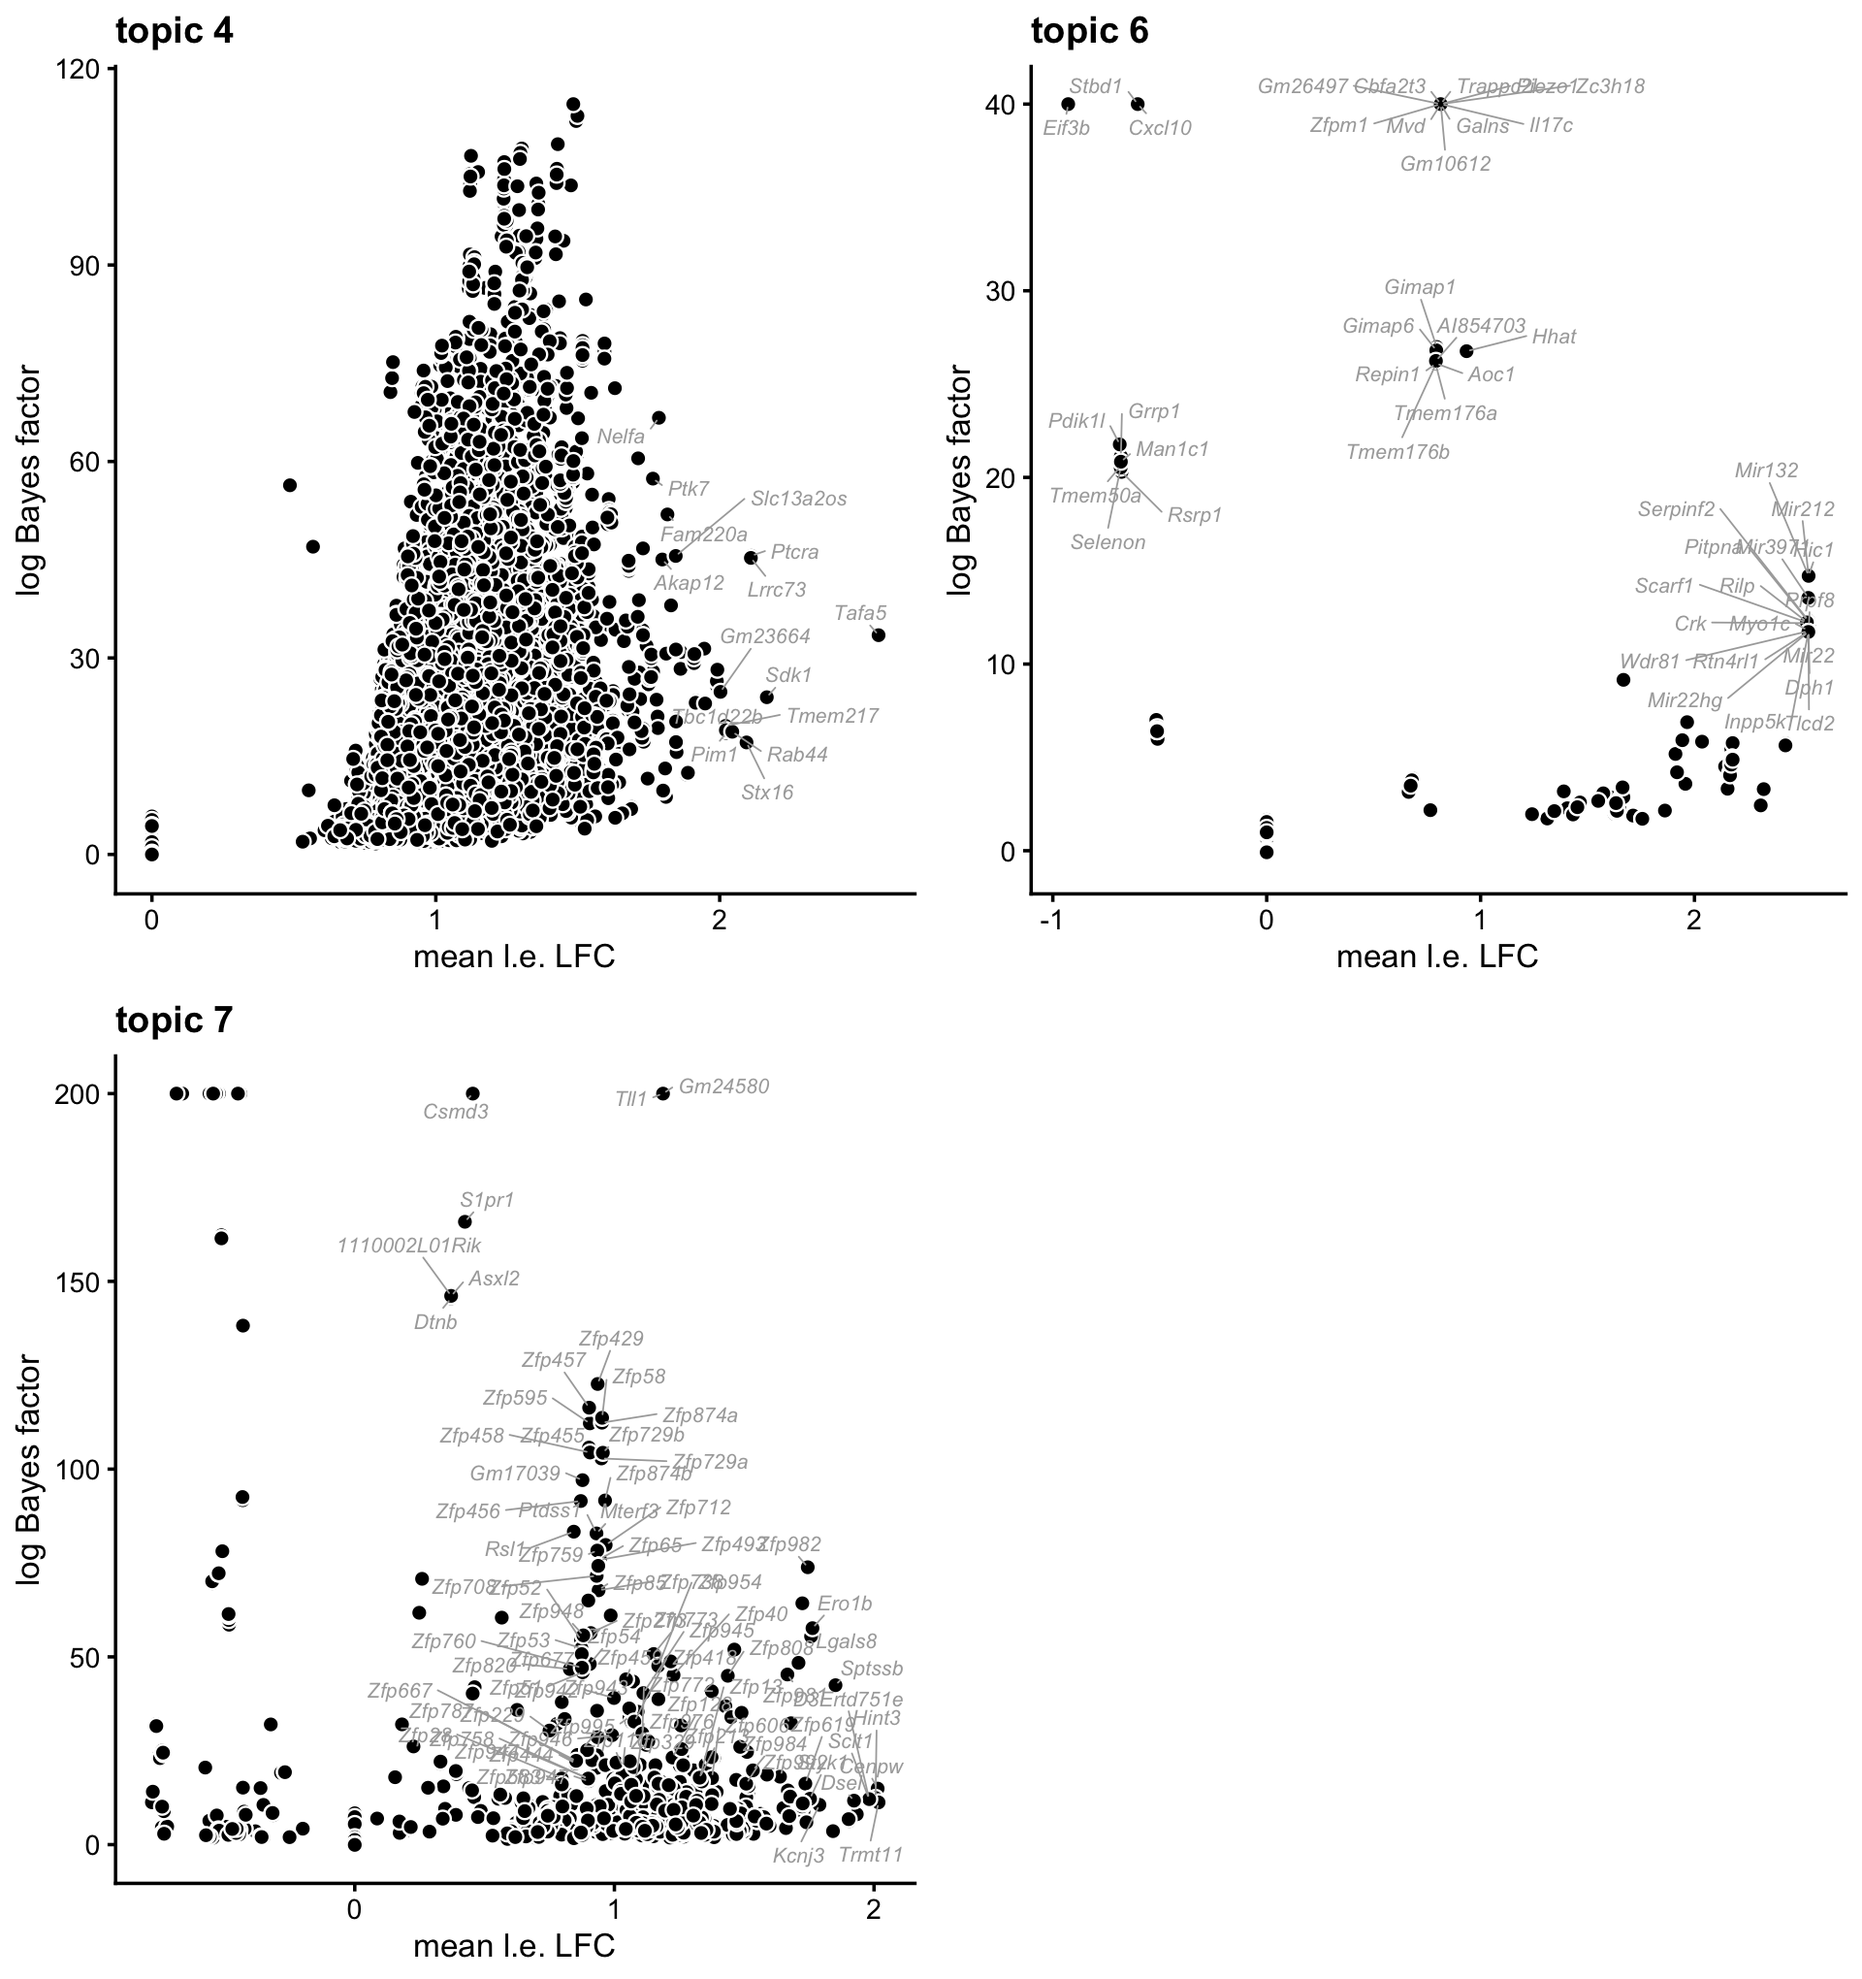
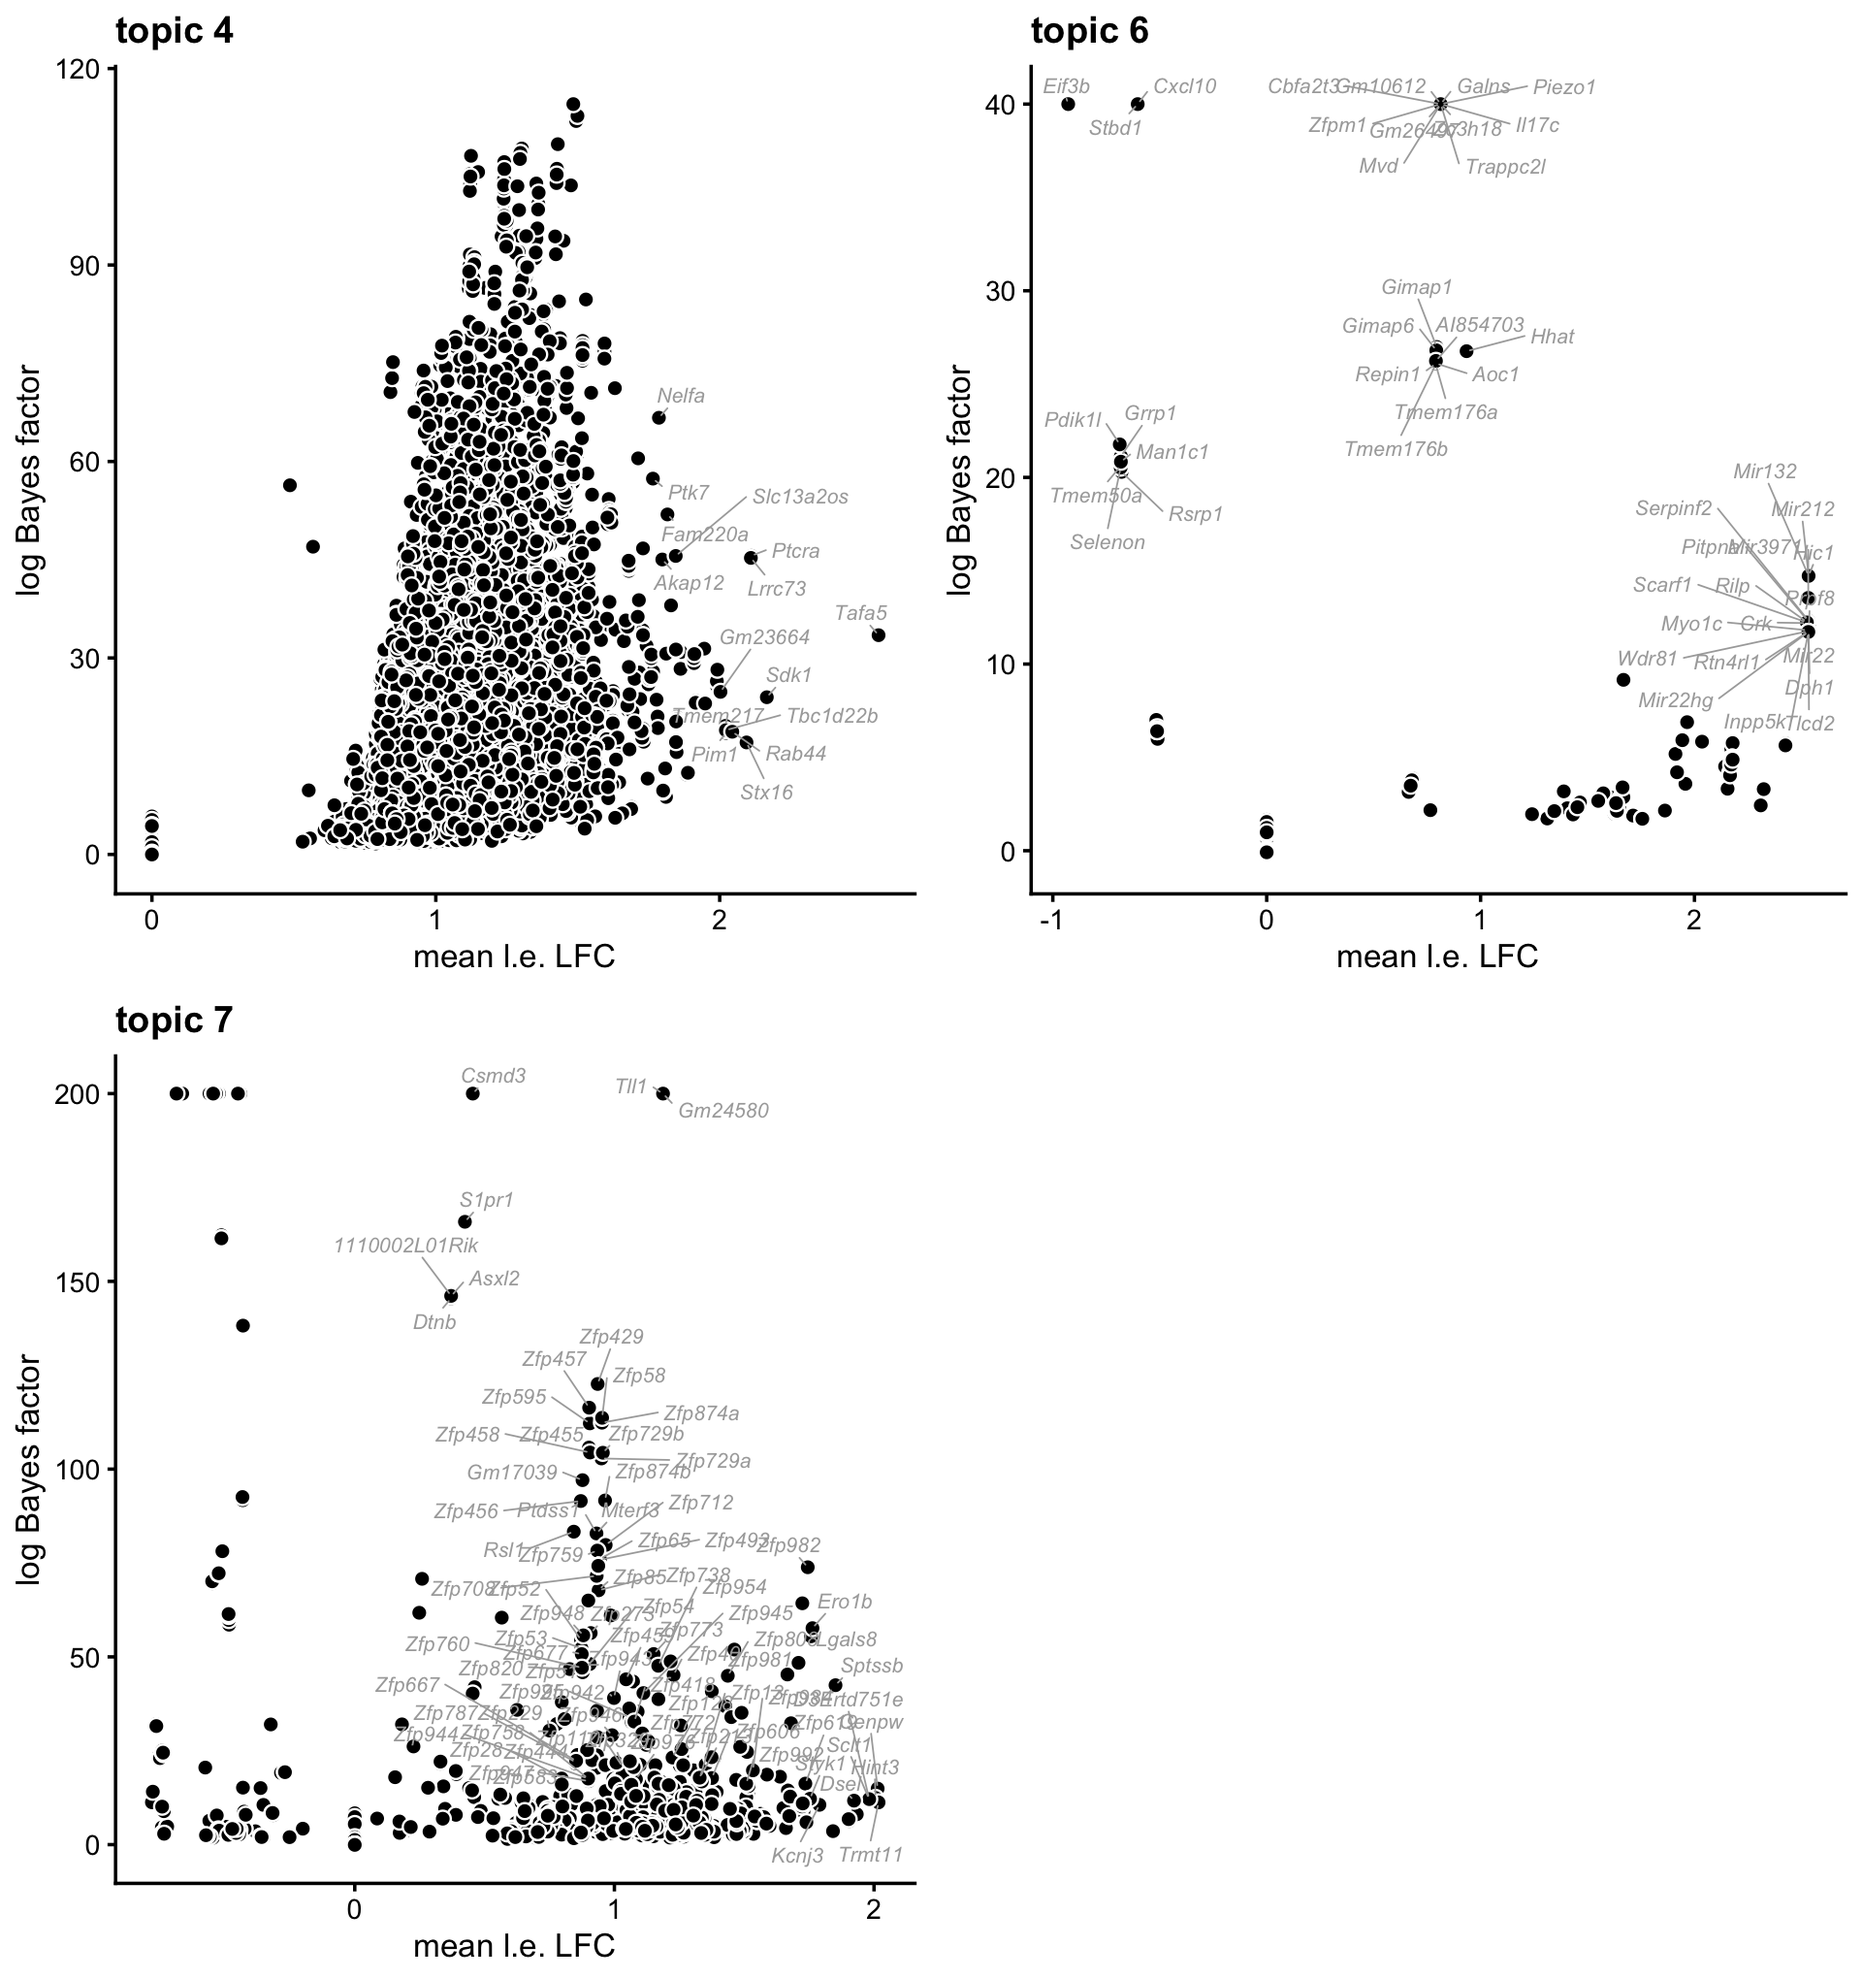
Generate PDFs of volcano plots for paper (cusanovich2018_kidney_k10).

diff --git a/docs/cusanovich2018_kidney_k10.html b/docs/cusanovich2018_kidney_k10.html
@@ -376,7 +376,7 @@ class="glyphicon glyphicon-ok text-success" aria-hidden="true"></span>
 <div class="tab-content">
 <div id="summary" class="tab-pane fade in active">
 <p>
-<strong>Last updated:</strong> 2022-10-04
+<strong>Last updated:</strong> 2022-10-10
 </p>
 <p>
 <strong>Checks:</strong> <span
@@ -507,15 +507,15 @@ project makes it easier to run your code on other machines.</p>
 <div class="panel panel-default">
 <div class="panel-heading">
 <p class="panel-title">
-<a data-toggle="collapse" data-parent="#workflowr-checks" href="#strongRepositoryversionstrongahrefhttpsgithubcomstephenslabscATACseqtopicstreedd40726398ded849d21b6b0fbf75ddb5bc1167a2targetblankdd40726a">
+<a data-toggle="collapse" data-parent="#workflowr-checks" href="#strongRepositoryversionstrongahrefhttpsgithubcomstephenslabscATACseqtopicstree992fdf78a48586abe1f6daa7c72ef6914324f544targetblank992fdf7a">
 <span class="glyphicon glyphicon-ok text-success"
 aria-hidden="true"></span> <strong>Repository version:</strong>
-<a href="https://github.com/stephenslab/scATACseq-topics/tree/dd40726398ded849d21b6b0fbf75ddb5bc1167a2" target="_blank">dd40726</a>
+<a href="https://github.com/stephenslab/scATACseq-topics/tree/992fdf78a48586abe1f6daa7c72ef6914324f544" target="_blank">992fdf7</a>
 </a>
 </p>
 </div>
 <div
[2 lines of base64/hex data omitted]
 class="panel-collapse collapse">
 <div class="panel-body">
 <p>
@@ -525,7 +525,7 @@ reproducibility.
 </p>
 <p>
 The results in this page were generated with repository version
-<a href="https://github.com/stephenslab/scATACseq-topics/tree/dd40726398ded849d21b6b0fbf75ddb5bc1167a2" target="_blank">dd40726</a>.
+<a href="https://github.com/stephenslab/scATACseq-topics/tree/992fdf78a48586abe1f6daa7c72ef6914324f544" target="_blank">992fdf7</a>.
 See the <em>Past versions</em> tab to see a history of the changes made
 to the R Markdown and HTML files.
 </p>
@@ -561,10 +561,6 @@ Untracked files:
     Untracked:  output/Buenrostro_2018/binarized/filtered_peaks/Buenrostro_2018_binarized_filtered.RData
     Untracked:  plots/
     Untracked:  scripts/fit-buenrostro-2018-k=8.rds
-    Untracked:  scripts/gene_enrich_cusanovich2018_kidney_k10.csv
-
-Unstaged changes:
-    Modified:   scripts/compile_de_gene_table.R
 
 </code></pre>
 <p>
@@ -611,6 +607,75 @@ Message
 </tr>
 </thead>
 <tbody>
+<tr>
+<td>
+Rmd
+</td>
+<td>
+<a href="https://github.com/stephenslab/scATACseq-topics/blob/992fdf78a48586abe1f6daa7c72ef6914324f544/analysis/cusanovich2018_kidney_k10.Rmd" target="_blank">992fdf7</a>
+</td>
+<td>
+Peter Carbonetto
+</td>
+<td>
+2022-10-10
+</td>
+<td>
+workflowr::wflow_publish("analysis/cusanovich2018_kidney_k10.Rmd",
+</td>
+</tr>
+<tr>
+<td>
+Rmd
+</td>
+<td>
+<a href="https://github.com/stephenslab/scATACseq-topics/blob/979a0ab0654930bbc1264aab4ed984c9062b78a9/analysis/cusanovich2018_kidney_k10.Rmd" target="_blank">979a0ab</a>
+</td>
+<td>
+Peter Carbonetto
+</td>
+<td>
+2022-10-05
+</td>
+<td>
+Added step to create eps for two volcano plots in
+cusanovich2018_kidney_k10 analysis.
+</td>
+</tr>
+<tr>
+<td>
+Rmd
+</td>
+<td>
+<a href="https://github.com/stephenslab/scATACseq-topics/blob/397cff5e6a0544c82e1c6f618a57946c79e22ed6/analysis/cusanovich2018_kidney_k10.Rmd" target="_blank">397cff5</a>
+</td>
+<td>
+Peter Carbonetto
+</td>
+<td>
+2022-10-04
+</td>
+<td>
+Added a couple notes.
+</td>
+</tr>
+<tr>
+<td>
+html
+</td>
+<td>
+<a href="https://rawcdn.githack.com/stephenslab/scATACseq-topics/b98cc33f770a652463e9ee2fb957fc85d2bd0211/docs/cusanovich2018_kidney_k10.html" target="_blank">b98cc33</a>
+</td>
+<td>
+Peter Carbonetto
+</td>
+<td>
+2022-10-04
+</td>
+<td>
+Added volcano plots for remaining topics to cusanovich2018_kidney_k10
+</td>
+</tr>
 <tr>
 <td>
 Rmd
@@ -1201,6 +1266,17 @@ Date
 <tbody>
 <tr>
 <td>
+<a href="https://github.com/stephenslab/scATACseq-topics/blob/b98cc33f770a652463e9ee2fb957fc85d2bd0211/docs/figure/cusanovich2018_kidney_k10.Rmd/volcano-plots-1-1.png" target="_blank">b98cc33</a>
+</td>
+<td>
+Peter Carbonetto
+</td>
+<td>
+2022-10-04
+</td>
+</tr>
+<tr>
+<td>
 <a href="https://github.com/stephenslab/scATACseq-topics/blob/7419f5c76dbe89b325b2c7e8295aad14fe8f243b/docs/figure/cusanovich2018_kidney_k10.Rmd/volcano-plots-1-1.png" target="_blank">7419f5c</a>
 </td>
 <td>
@@ -1241,8 +1317,9 @@ genes identified in <a
 href="https://doi.org/10.1007/s12079-022-00685-z">Wu <em>et al</em></a>
 for the S1 and S3 segments of the proximal tubule.</p>
 <pre class="r"><code>k &lt;- 9
-label_genes &lt;- (is.element(genes,c(pt_genes,S1_genes)) &amp;
+label_genes &lt;- (is.element(genes,S1_genes) &amp;
                 de_gene$logLR[,k] &gt; 4) |
+               (de_gene$logLR[,k] &gt; 40 &amp; de_gene$coef[,k] &gt; 2.25) |
                (de_gene$logLR[,k] &gt; 100 &amp; de_gene$coef[,k] &gt; 1) |
                (de_gene$coef[,k] &gt; 3)
 k9_genes &lt;- genes
@@ -1253,7 +1330,7 @@ k9_highlight[is.element(genes,S1_genes)] &lt;- 2
 p9 &lt;- volcano_plot_enrich(de_gene,k = 9,labels = k9_genes,
                           highlight = factor(k9_highlight),ymax = 200)
 k &lt;- 10
-label_genes &lt;- (is.element(genes,c(pt_genes,S3_genes)) &amp;
+label_genes &lt;- (is.element(genes,S3_genes) &amp;
                 de_gene$logLR[,k] &gt; 4) |
                (de_gene$logLR[,k] &gt; 65 &amp; de_gene$coef[,k] &gt; 1.5) |
                (de_gene$coef[,k] &gt; 3)
@@ -1288,6 +1365,17 @@ Date
 </tr>
 </thead>
 <tbody>
+<tr>
+<td>
+<a href="https://github.com/stephenslab/scATACseq-topics/blob/b98cc33f770a652463e9ee2fb957fc85d2bd0211/docs/figure/cusanovich2018_kidney_k10.Rmd/volcano-plots-2-1.png" target="_blank">b98cc33</a>
+</td>
+<td>
+Peter Carbonetto
+</td>
+<td>
+2022-10-04
+</td>
+</tr>
 <tr>
 <td>
 <a href="https://github.com/stephenslab/scATACseq-topics/blob/7419f5c76dbe89b325b2c7e8295aad14fe8f243b/docs/figure/cusanovich2018_kidney_k10.Rmd/volcano-plots-2-1.png" target="_blank">7419f5c</a>
@@ -1329,8 +1417,9 @@ Peter Carbonetto
 remaining topics.</p>
 <p>To do:</p>
 <ul>
-<li><p>Compile enrichment results into tables.</p></li>
-<li><p>Create volcano plots for paper.</p></li>
+<li>Create volcano plots for paper. In particular, volcano plots for
+topics 9 and 10 will go in the main text, and the remaining will go in
+the supplement. Also, fill out “selected top genes”.</li>
 </ul>
 <pre class="r"><code>k &lt;- 4
 label_genes &lt;- (de_gene$logLR[,k] &gt; 40 &amp; de_gene$coef[,k] &gt; 1.75) |
@@ -1354,7 +1443,48 @@ k7_genes[!label_genes] &lt;- &quot;&quot;
 p7 &lt;- volcano_plot_enrich(de_gene,k = 7,labels = k7_genes,ymax = 200)
 plot_grid(p4,p6,p7,nrow = 2,ncol = 2)</code></pre>
 <p><img src="figure/cusanovich2018_kidney_k10.Rmd/volcano-plots-3-1.png" width="960" style="display: block; margin: auto;" /></p>
+<p>
+<button type="button" class="btn btn-default btn-xs btn-workflowr btn-workflowr-fig" data-toggle="collapse" data-target="#fig-volcano-plots-3-1">
+Past versions of volcano-plots-3-1.png
+</button>
+</p>
+<div id="fig-volcano-plots-3-1" class="collapse">
+<div class="table-responsive">
+<table class="table table-condensed table-hover">
+<thead>
+<tr>
+<th>
+Version
+</th>
+<th>
+Author
+</th>
+<th>
+Date
+</th>
+</tr>
+</thead>
+<tbody>
+<tr>
+<td>
+<a href="https://github.com/stephenslab/scATACseq-topics/blob/b98cc33f770a652463e9ee2fb957fc85d2bd0211/docs/figure/cusanovich2018_kidney_k10.Rmd/volcano-plots-3-1.png" target="_blank">b98cc33</a>
+</td>
+<td>
+Peter Carbonetto
+</td>
+<td>
+2022-10-04
+</td>
+</tr>
+</tbody>
+</table>
+</div>
+</div>
 <p>Diagram from <a href="https://www.osmosis.org">osmosis.com</a>:</p>
+<pre><code># Warning: Removed 2 rows containing missing values (geom_point).
+# Warning: Removed 1 rows containing missing values (geom_point).
+
+# Warning: Removed 1 rows containing missing values (geom_point).</code></pre>
 <div class="figure">
 <img src="kidney.jpg" alt="" />
 <p class="caption">kidney diagram</p>
